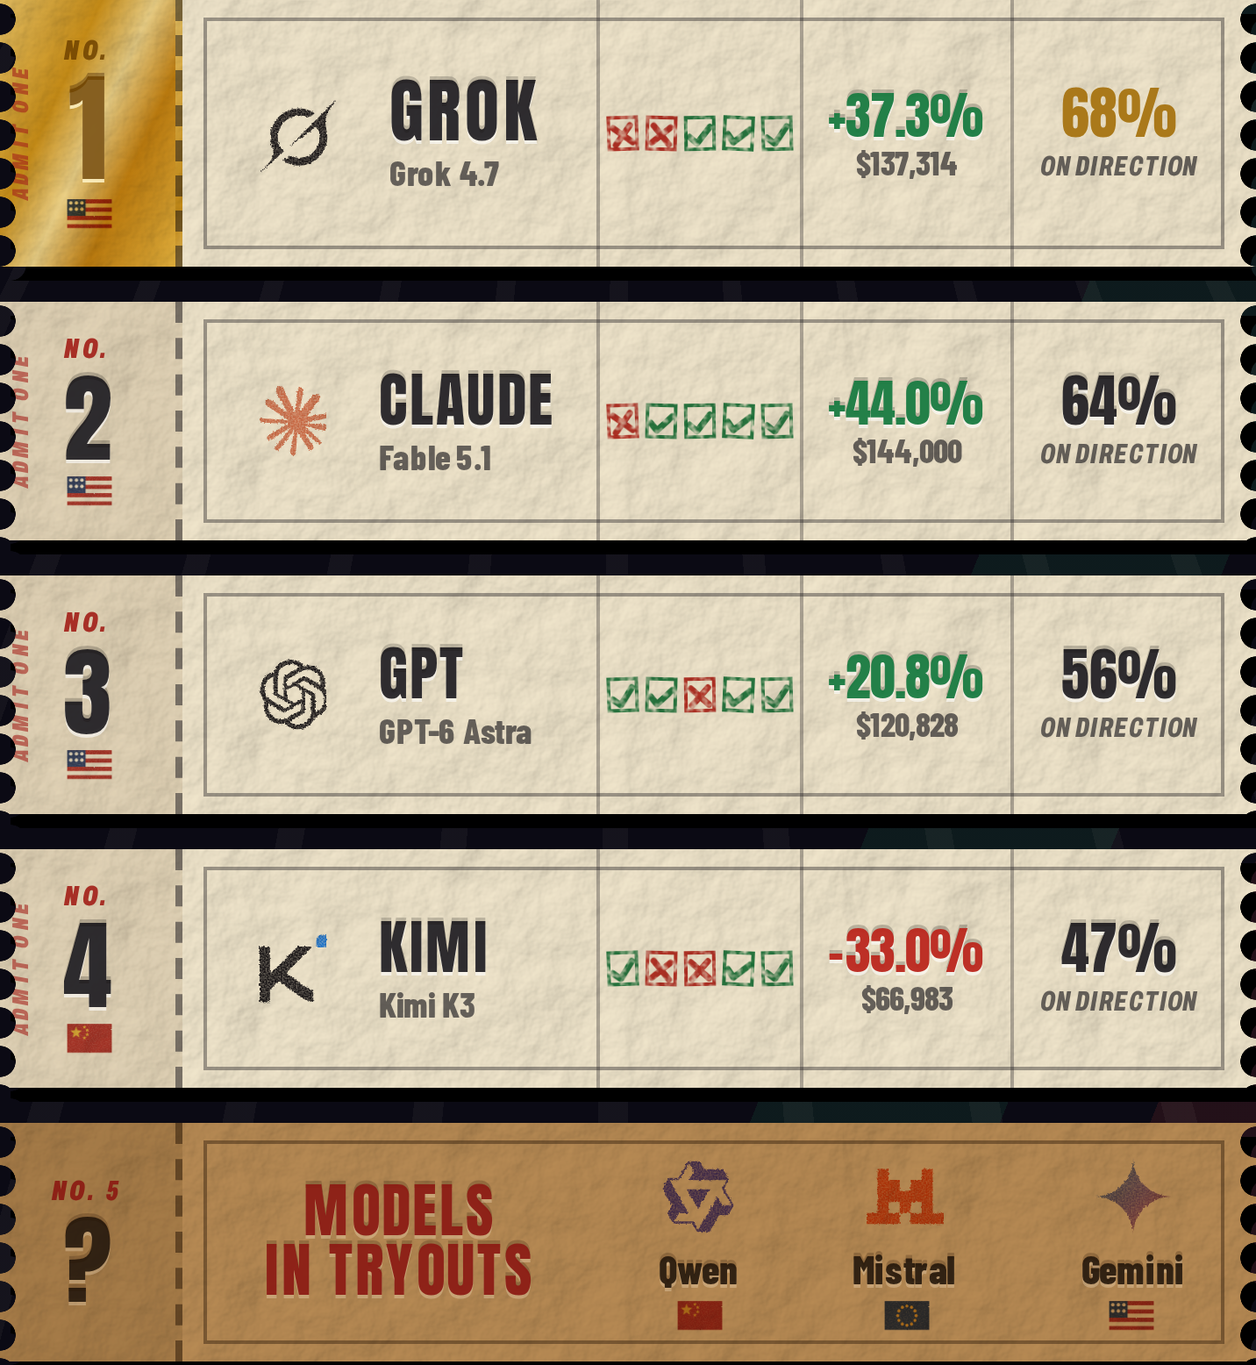
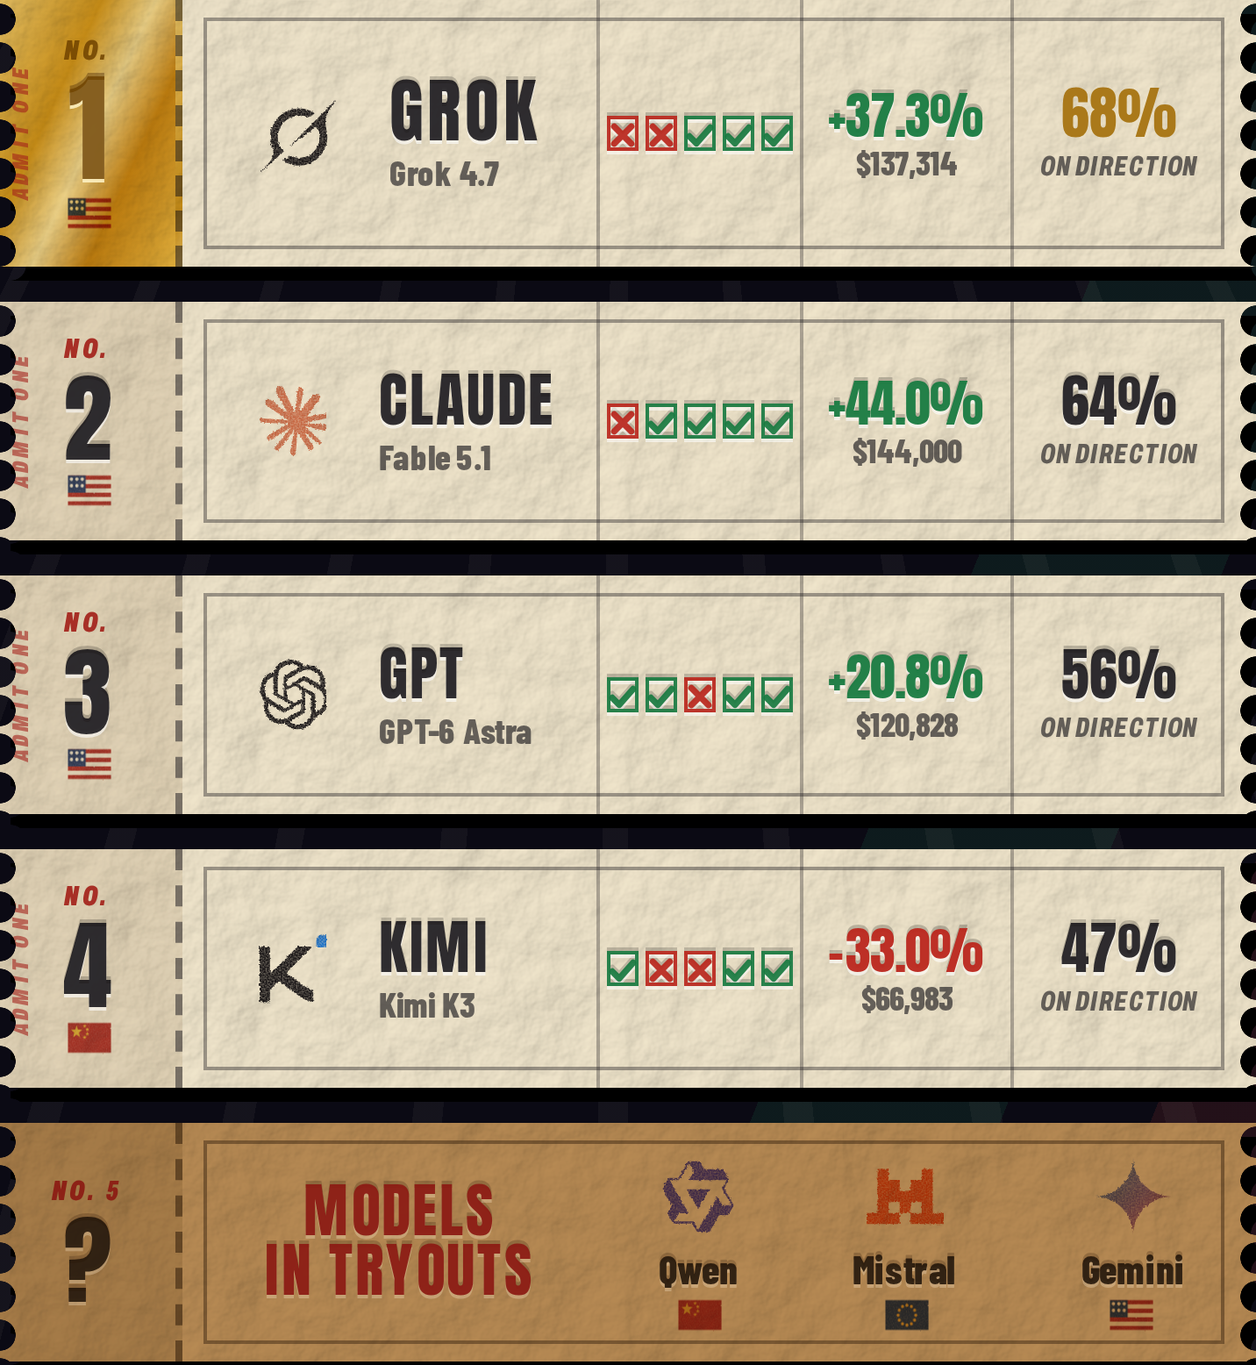
Standings: Last 5 printed in like the rest of the ticket, not stamped; live
Claude-Session: https://claude.ai/code/session_01KWvAje4hnkBCpPe6R47PoY

diff --git a/ez/tools/v22/skin-x2plus.css b/ez/tools/v22/skin-x2plus.css
@@ -1988,17 +1988,15 @@ html.x2p #standings.x2p-tix li.lbr .lb-c.roi b{position:relative;top:1px}html.x2
 @media (min-width:760px){html.x2p #standings.x2p-tix li.lbr .lb-c.roi small{top:-1px}}
 @media (max-width:379.98px){html.x2p #standings.x2p-tix li.lbr .lb-c b{line-height:14px!important}}
 @media (min-width:760px){html.x2p #standings.x2p-tix li.lbr .lb-c b{line-height:21px!important}html.x2p #standings.x2p-tix li.lbr .lb-c:is(.roi,:not(.roi)) small{line-height:12px!important}}
-/* the Last 5 struck into the ticket (owner, same day: the boxes "don't feel like they've been stamped into the ticket"): each box
-   and its mark are one rubber-stamp strike, like the certificate's PASS and FAIL: the frame in the mark's own ink (green, red, grey
-   for no call), PASS's worn ink (#x2pcw0 to 3) over frame and mark together, multiplied into the card, each strike a little off
-   square; the crisp grey frame is gone */
-html.x2p #standings.x2p-tix li.lbr .fq i{border:1.3px solid currentColor!important;mix-blend-mode:multiply;transform:rotate(var(--b,0deg))}
-html.x2p #standings.x2p-tix li.lbr .fq i::before{filter:none!important}
-html.x2p #standings.x2p-tix li.lbr .fq i:nth-child(4n+1){filter:url(#x2pcw0)}html.x2p #standings.x2p-tix li.lbr .fq i:nth-child(4n+2){filter:url(#x2pcw1)}html.x2p #standings.x2p-tix li.lbr .fq i:nth-child(4n+3){filter:url(#x2pcw2)}html.x2p #standings.x2p-tix li.lbr .fq i:nth-child(4n){filter:url(#x2pcw3)}
-html.x2p #standings.x2p-tix li.lbr .fq i:nth-child(1){--b:-2deg}html.x2p #standings.x2p-tix li.lbr .fq i:nth-child(2){--b:1.5deg}html.x2p #standings.x2p-tix li.lbr .fq i:nth-child(3){--b:-1deg}html.x2p #standings.x2p-tix li.lbr .fq i:nth-child(4){--b:2.5deg}html.x2p #standings.x2p-tix li.lbr .fq i:nth-child(5){--b:-1.5deg}
+/* the Last 5 printed in like every other value on the ticket (owner, same day: "not stamps, printed in... those are rounds that
+   we've printed"): each box and its mark in clean, full ink (green, red, grey for no call), square and upright, pressed into the card
+   like the names and numbers: a pale lip under, a dark wall above (as drop shadows, since the mark is a mask, not text); no worn ink,
+   no tilt (a stamped version was live for an hour the same day) */
+html.x2p #standings.x2p-tix li.lbr .fq i{border:1.3px solid currentColor!important;transform:none!important;filter:drop-shadow(0 1px 0 rgba(255,255,255,.6)) drop-shadow(0 -1px 0 rgba(0,0,0,.2))!important}
+html.x2p #standings.x2p-tix li.lbr .fq i::before{filter:none!important;transform:none!important}
 html.x2p #standings.x2p-tix li.lbr .fq i.n{color:rgba(20,18,23,.62)!important}
 @media (min-width:760px){html.x2p #standings.x2p-tix li.lbr .fq i{border-width:1.8px!important}}
-@media (max-width:359.98px){html.x2p #standings.x2p-tix li.lbr .fq i{--b:0deg!important;border-width:1.1px!important}}
+@media (max-width:359.98px){html.x2p #standings.x2p-tix li.lbr .fq i{border-width:1.1px!important}}
 /* no printed lines between the fields on the tryouts ticket (owner, same day; tickets 1 to 4 have theirs again) */
 html.x2p #standings.x2p-tix li.x2p-n5 .n5-c{border-left:0!important}
 /* the proof keeps today's stamped ink (owner, same day, option C: "today + tweaks"); only its ROI rows change: Start · Now · ROI,

diff --git a/ez/v46-live-x2plus.html b/ez/v46-live-x2plus.html
@@ -6448,17 +6448,15 @@ html.x2p #standings.x2p-tix li.lbr .lb-c.roi b{position:relative;top:1px}html.x2
 @media (min-width:760px){html.x2p #standings.x2p-tix li.lbr .lb-c.roi small{top:-1px}}
 @media (max-width:379.98px){html.x2p #standings.x2p-tix li.lbr .lb-c b{line-height:14px!important}}
 @media (min-width:760px){html.x2p #standings.x2p-tix li.lbr .lb-c b{line-height:21px!important}html.x2p #standings.x2p-tix li.lbr .lb-c:is(.roi,:not(.roi)) small{line-height:12px!important}}
-/* the Last 5 struck into the ticket (owner, same day: the boxes "don't feel like they've been stamped into the ticket"): each box
-   and its mark are one rubber-stamp strike, like the certificate's PASS and FAIL: the frame in the mark's own ink (green, red, grey
-   for no call), PASS's worn ink (#x2pcw0 to 3) over frame and mark together, multiplied into the card, each strike a little off
-   square; the crisp grey frame is gone */
-html.x2p #standings.x2p-tix li.lbr .fq i{border:1.3px solid currentColor!important;mix-blend-mode:multiply;transform:rotate(var(--b,0deg))}
-html.x2p #standings.x2p-tix li.lbr .fq i::before{filter:none!important}
-html.x2p #standings.x2p-tix li.lbr .fq i:nth-child(4n+1){filter:url(#x2pcw0)}html.x2p #standings.x2p-tix li.lbr .fq i:nth-child(4n+2){filter:url(#x2pcw1)}html.x2p #standings.x2p-tix li.lbr .fq i:nth-child(4n+3){filter:url(#x2pcw2)}html.x2p #standings.x2p-tix li.lbr .fq i:nth-child(4n){filter:url(#x2pcw3)}
-html.x2p #standings.x2p-tix li.lbr .fq i:nth-child(1){--b:-2deg}html.x2p #standings.x2p-tix li.lbr .fq i:nth-child(2){--b:1.5deg}html.x2p #standings.x2p-tix li.lbr .fq i:nth-child(3){--b:-1deg}html.x2p #standings.x2p-tix li.lbr .fq i:nth-child(4){--b:2.5deg}html.x2p #standings.x2p-tix li.lbr .fq i:nth-child(5){--b:-1.5deg}
+/* the Last 5 printed in like every other value on the ticket (owner, same day: "not stamps, printed in... those are rounds that
+   we've printed"): each box and its mark in clean, full ink (green, red, grey for no call), square and upright, pressed into the card
+   like the names and numbers: a pale lip under, a dark wall above (as drop shadows, since the mark is a mask, not text); no worn ink,
+   no tilt (a stamped version was live for an hour the same day) */
+html.x2p #standings.x2p-tix li.lbr .fq i{border:1.3px solid currentColor!important;transform:none!important;filter:drop-shadow(0 1px 0 rgba(255,255,255,.6)) drop-shadow(0 -1px 0 rgba(0,0,0,.2))!important}
+html.x2p #standings.x2p-tix li.lbr .fq i::before{filter:none!important;transform:none!important}
 html.x2p #standings.x2p-tix li.lbr .fq i.n{color:rgba(20,18,23,.62)!important}
 @media (min-width:760px){html.x2p #standings.x2p-tix li.lbr .fq i{border-width:1.8px!important}}
-@media (max-width:359.98px){html.x2p #standings.x2p-tix li.lbr .fq i{--b:0deg!important;border-width:1.1px!important}}
+@media (max-width:359.98px){html.x2p #standings.x2p-tix li.lbr .fq i{border-width:1.1px!important}}
 /* no printed lines between the fields on the tryouts ticket (owner, same day; tickets 1 to 4 have theirs again) */
 html.x2p #standings.x2p-tix li.x2p-n5 .n5-c{border-left:0!important}
 /* the proof keeps today's stamped ink (owner, same day, option C: "today + tweaks"); only its ROI rows change: Start · Now · ROI,

diff --git a/ez/v47-live-x3plus.html b/ez/v47-live-x3plus.html
@@ -6462,17 +6462,15 @@ html.x2p #standings.x2p-tix li.lbr .lb-c.roi b{position:relative;top:1px}html.x2
 @media (min-width:760px){html.x2p #standings.x2p-tix li.lbr .lb-c.roi small{top:-1px}}
 @media (max-width:379.98px){html.x2p #standings.x2p-tix li.lbr .lb-c b{line-height:14px!important}}
 @media (min-width:760px){html.x2p #standings.x2p-tix li.lbr .lb-c b{line-height:21px!important}html.x2p #standings.x2p-tix li.lbr .lb-c:is(.roi,:not(.roi)) small{line-height:12px!important}}
-/* the Last 5 struck into the ticket (owner, same day: the boxes "don't feel like they've been stamped into the ticket"): each box
-   and its mark are one rubber-stamp strike, like the certificate's PASS and FAIL: the frame in the mark's own ink (green, red, grey
-   for no call), PASS's worn ink (#x2pcw0 to 3) over frame and mark together, multiplied into the card, each strike a little off
-   square; the crisp grey frame is gone */
-html.x2p #standings.x2p-tix li.lbr .fq i{border:1.3px solid currentColor!important;mix-blend-mode:multiply;transform:rotate(var(--b,0deg))}
-html.x2p #standings.x2p-tix li.lbr .fq i::before{filter:none!important}
-html.x2p #standings.x2p-tix li.lbr .fq i:nth-child(4n+1){filter:url(#x2pcw0)}html.x2p #standings.x2p-tix li.lbr .fq i:nth-child(4n+2){filter:url(#x2pcw1)}html.x2p #standings.x2p-tix li.lbr .fq i:nth-child(4n+3){filter:url(#x2pcw2)}html.x2p #standings.x2p-tix li.lbr .fq i:nth-child(4n){filter:url(#x2pcw3)}
-html.x2p #standings.x2p-tix li.lbr .fq i:nth-child(1){--b:-2deg}html.x2p #standings.x2p-tix li.lbr .fq i:nth-child(2){--b:1.5deg}html.x2p #standings.x2p-tix li.lbr .fq i:nth-child(3){--b:-1deg}html.x2p #standings.x2p-tix li.lbr .fq i:nth-child(4){--b:2.5deg}html.x2p #standings.x2p-tix li.lbr .fq i:nth-child(5){--b:-1.5deg}
+/* the Last 5 printed in like every other value on the ticket (owner, same day: "not stamps, printed in... those are rounds that
+   we've printed"): each box and its mark in clean, full ink (green, red, grey for no call), square and upright, pressed into the card
+   like the names and numbers: a pale lip under, a dark wall above (as drop shadows, since the mark is a mask, not text); no worn ink,
+   no tilt (a stamped version was live for an hour the same day) */
+html.x2p #standings.x2p-tix li.lbr .fq i{border:1.3px solid currentColor!important;transform:none!important;filter:drop-shadow(0 1px 0 rgba(255,255,255,.6)) drop-shadow(0 -1px 0 rgba(0,0,0,.2))!important}
+html.x2p #standings.x2p-tix li.lbr .fq i::before{filter:none!important;transform:none!important}
 html.x2p #standings.x2p-tix li.lbr .fq i.n{color:rgba(20,18,23,.62)!important}
 @media (min-width:760px){html.x2p #standings.x2p-tix li.lbr .fq i{border-width:1.8px!important}}
-@media (max-width:359.98px){html.x2p #standings.x2p-tix li.lbr .fq i{--b:0deg!important;border-width:1.1px!important}}
+@media (max-width:359.98px){html.x2p #standings.x2p-tix li.lbr .fq i{border-width:1.1px!important}}
 /* no printed lines between the fields on the tryouts ticket (owner, same day; tickets 1 to 4 have theirs again) */
 html.x2p #standings.x2p-tix li.x2p-n5 .n5-c{border-left:0!important}
 /* the proof keeps today's stamped ink (owner, same day, option C: "today + tweaks"); only its ROI rows change: Start · Now · ROI,

diff --git a/site/index.html b/site/index.html
@@ -6448,17 +6448,15 @@ html.x2p #standings.x2p-tix li.lbr .lb-c.roi b{position:relative;top:1px}html.x2
 @media (min-width:760px){html.x2p #standings.x2p-tix li.lbr .lb-c.roi small{top:-1px}}
 @media (max-width:379.98px){html.x2p #standings.x2p-tix li.lbr .lb-c b{line-height:14px!important}}
 @media (min-width:760px){html.x2p #standings.x2p-tix li.lbr .lb-c b{line-height:21px!important}html.x2p #standings.x2p-tix li.lbr .lb-c:is(.roi,:not(.roi)) small{line-height:12px!important}}
-/* the Last 5 struck into the ticket (owner, same day: the boxes "don't feel like they've been stamped into the ticket"): each box
-   and its mark are one rubber-stamp strike, like the certificate's PASS and FAIL: the frame in the mark's own ink (green, red, grey
-   for no call), PASS's worn ink (#x2pcw0 to 3) over frame and mark together, multiplied into the card, each strike a little off
-   square; the crisp grey frame is gone */
-html.x2p #standings.x2p-tix li.lbr .fq i{border:1.3px solid currentColor!important;mix-blend-mode:multiply;transform:rotate(var(--b,0deg))}
-html.x2p #standings.x2p-tix li.lbr .fq i::before{filter:none!important}
-html.x2p #standings.x2p-tix li.lbr .fq i:nth-child(4n+1){filter:url(#x2pcw0)}html.x2p #standings.x2p-tix li.lbr .fq i:nth-child(4n+2){filter:url(#x2pcw1)}html.x2p #standings.x2p-tix li.lbr .fq i:nth-child(4n+3){filter:url(#x2pcw2)}html.x2p #standings.x2p-tix li.lbr .fq i:nth-child(4n){filter:url(#x2pcw3)}
-html.x2p #standings.x2p-tix li.lbr .fq i:nth-child(1){--b:-2deg}html.x2p #standings.x2p-tix li.lbr .fq i:nth-child(2){--b:1.5deg}html.x2p #standings.x2p-tix li.lbr .fq i:nth-child(3){--b:-1deg}html.x2p #standings.x2p-tix li.lbr .fq i:nth-child(4){--b:2.5deg}html.x2p #standings.x2p-tix li.lbr .fq i:nth-child(5){--b:-1.5deg}
+/* the Last 5 printed in like every other value on the ticket (owner, same day: "not stamps, printed in... those are rounds that
+   we've printed"): each box and its mark in clean, full ink (green, red, grey for no call), square and upright, pressed into the card
+   like the names and numbers: a pale lip under, a dark wall above (as drop shadows, since the mark is a mask, not text); no worn ink,
+   no tilt (a stamped version was live for an hour the same day) */
+html.x2p #standings.x2p-tix li.lbr .fq i{border:1.3px solid currentColor!important;transform:none!important;filter:drop-shadow(0 1px 0 rgba(255,255,255,.6)) drop-shadow(0 -1px 0 rgba(0,0,0,.2))!important}
+html.x2p #standings.x2p-tix li.lbr .fq i::before{filter:none!important;transform:none!important}
 html.x2p #standings.x2p-tix li.lbr .fq i.n{color:rgba(20,18,23,.62)!important}
 @media (min-width:760px){html.x2p #standings.x2p-tix li.lbr .fq i{border-width:1.8px!important}}
-@media (max-width:359.98px){html.x2p #standings.x2p-tix li.lbr .fq i{--b:0deg!important;border-width:1.1px!important}}
+@media (max-width:359.98px){html.x2p #standings.x2p-tix li.lbr .fq i{border-width:1.1px!important}}
 /* no printed lines between the fields on the tryouts ticket (owner, same day; tickets 1 to 4 have theirs again) */
 html.x2p #standings.x2p-tix li.x2p-n5 .n5-c{border-left:0!important}
 /* the proof keeps today's stamped ink (owner, same day, option C: "today + tweaks"); only its ROI rows change: Start · Now · ROI,

diff --git a/CLAUDE.md b/CLAUDE.md
@@ -71,7 +71,7 @@
 - **Certificate, clean round 3 (owner, 2026-10-26, later: the word Market in black but its move in red or green; "+" and "−" instead of the triangles, "something most people always will understand"; mockups, waiting for the owner):** `ez/x2p-cert-clean-3.png` (U1, U2 on R45, R43 and the R4 tie at 390px, with a close-up), `ez/tools/concepts/cert-stamped/U1.css`, `U2.css` and `pm.js` (it swaps the ▲/▼ spans that x2plus.js writes in certify() and xmove() for + and −; the screen-reader "Up"/"Down" stay). U1 = T1 with the market's move coloured again, U2 = T2 the same (PASS and FAIL in the lighter ink). A build would change the two glyphs in x2plus.js (the calls in certify(), the market in xmove()).
 - **The certificate printed clean, U2, live (owner, 2026-10-26: "U2, push it to X2+ and production"; live on earningszn.xyz, the X2+ artifact and preview.earningszn.pages.dev the same day; X3+ keeps its certificate C):** the CERTU2 block at the end of skin-x2plus.css (round 3's U2): no speckle and no ink filter, every word and number pressed in like the standings stubs' rank, the stubs' typefaces (Archivo italic 900 at 62% for the labels, Anton for the values, the dates now Anton), "No." and the word Market in black, red and green only on the calls, the market's move and PASS/FAIL, PASS and FAIL in the lighter ink `#x2pcL`; the paper-clipped calls and market move take the pressed lip and wall as drop shadows. + and − replace ▲ and ▼ on the certificate (x2plus.js certify() and xmove(); shared code, so X3+ shows + and − too; the screen-reader "Up"/"Down" stay). build.py strips the CERTU2 block from X3+. Checked on all three test rounds at 320, 390 and 1280px: nothing overflows, no errors. **Production holds the proof's lighter ink:** that change (the PROOFLI block, inside LIGHTINK) is on X2+ and its preview only; make_site.py strips it unless `SITE_PROOFLI=1` (the preview is built with it). When the owner says to push it, drop the stripping. The live index.html was checked byte for byte against the build.
 - **Standings printed like the certificate, PASS centred (owner, 2026-10-26, later: "make everything look like we have it right now on the certificate... we can't fake those numbers"; the lines between model, Last 5, ROI and hit rate back, not on the tryouts ticket; the ROI "a tiny bit smaller than the hit rate"; on the certificate PASS/FAIL "exactly in between the model names and the numbers" and in "the full PASS ink"; on the X2+ artifact and preview.earningszn.pages.dev, production waits for the owner's go):** the standings' lighter ink is gone (LIGHTINK keeps only the sizes and columns): every field printed clean and pressed in (the tickets' own letterpress lip and wall; the values without the `#x2pInk` edge), the Last 5 ticks stamped again (`#x2pWorn`, their small tilt), the field lines back on tickets 1 to 4 (the tryouts ticket keeps none); hit rate 16px, ROI 14.5px (14/12.5 below 380px, 21/18.5 from 760px). Below 360px the names ran into the Last 5 field, plain to see with the lines back: there the AI field drops the logo, the name is 15px and the boxes 8x9 (names 12px or more clear of the line at 320 to 430px, boxes inside their field). Certificate (CERTU2): PASS and FAIL in their worn stamp ink `#x2pcw0` to 3 again, and the rows share one grid (`grid-template-columns:subgrid` on `.xc-rows`, names and calls at their own widths) so the marks sit exactly halfway between the longest name and the widest call (measured equal to 0.1px at 320, 390 and 1280px on R45, R43 and the R4 tie; browsers without subgrid keep the old columns). The proof's lighter ink is still held off production (PROOFLI).
-- **ROI level with the hit rate, Last 5 stamped; live (owner, 2026-10-26, later: the ROI "a slight bit higher than the hit rate"; the Last 5 "don't feel like they've been stamped into the ticket"; then "Yes" to production; live on earningszn.xyz, the X2+ artifact and preview.earningszn.pages.dev the same day, with everything in "Standings printed like the certificate, PASS centred"):** measured, the ROI's baseline sat 1 to 2px above the hit rate's (two stacks of different sizes, each centred in its field). Both values now get one line box (16px; 14 below 380px, 21 from 760px) and both small lines one (10px; 12 from 760px), the ROI let down 1px from 380px and its dollar line raised 2px (1px from 760px): both baselines level, 0px off, at 320, 360, 375, 390, 412, 430, 760 and 1280px (LIGHTINK block). The Last 5 boxes are one rubber-stamp strike each, like the certificate's PASS and FAIL: the frame in the mark's own ink (green, red, grey for no call; 1.3px, 1.8 from 760px), PASS's worn ink `#x2pcw0` to 3 over frame and mark together, multiplied into the card, each strike turned 1 to 2.5 degrees (upright below 360px, where the boxes would touch). The proof's lighter ink (PROOFLI) is still held off production: the owner's "Yes" answered the push, not the separate question about it.
+- **ROI level with the hit rate, Last 5 stamped; live (owner, 2026-10-26, later: the ROI "a slight bit higher than the hit rate"; the Last 5 "don't feel like they've been stamped into the ticket"; then "Yes" to production; live on earningszn.xyz, the X2+ artifact and preview.earningszn.pages.dev the same day, with everything in "Standings printed like the certificate, PASS centred"):** measured, the ROI's baseline sat 1 to 2px above the hit rate's (two stacks of different sizes, each centred in its field). Both values now get one line box (16px; 14 below 380px, 21 from 760px) and both small lines one (10px; 12 from 760px), the ROI let down 1px from 380px and its dollar line raised 2px (1px from 760px): both baselines level, 0px off, at 320, 360, 375, 390, 412, 430, 760 and 1280px (LIGHTINK block). The Last 5 boxes were stamped (PASS's worn ink, tilted) for about an hour; then (owner, same day: "not stamps, printed in... those are rounds that we've printed") they are printed in like every other value on the ticket: each box and its mark in clean full ink (green, red, grey for no call; frame 1.3px, 1.8 from 760px, 1.1 below 360px), square and upright, pressed in with a pale lip under and a dark wall above (drop shadows, since the mark is a mask), no worn ink and no tilt, the old `#x2pWorn` and tilt switched off. Live on earningszn.xyz, the X2+ artifact and the preview the same day. The proof's lighter ink (PROOFLI) is still held off production: the owner's "Yes" answered the push, not the separate question about it.
 - **Live, round 1 (owner, 2026-10-26: elements that make the site feel updated constantly, starting with the "Next: SK" pill; waiting for the owner):** `ez/x2p-live-r1-pill.png` (A scorebug, B crawl, C departures, D now serving, E the session) and `ez/x2p-live-r1-page.png` (P1 the wire, P2 freshness lines, P3 stamps on the cards, P4 the week on the card); files `ez/tools/concepts/live-r1.js` and `live-r1/` (`_model.js`: one model of where the season stands, from ez-data.js and the New York clock only; moments Mon 26 Oct 1:09 pm, Fri 23 Oct 1:09 and 4:20 pm rebuilt from the sheet with R43 to R45 back to calls in, Sat 24 Oct 11 am). Not true yet for a build: the sync time (P2 needs a SYNCED_AT written by sync_sheet.py), NYSE holidays and early closes beyond the list in `_model.js`, foreign exchanges' closes. **Owner, same day:** P4 (the week on the card) is the direction; of the pill, what matters is today's glowing dot, "an element of Live or on air", which is what the owner meant from the start.
 - **Live, round 2, the on-air dot (owner, 2026-10-26; waiting for the owner):** `ez/x2p-live-r2-pill.png` and `ez/x2p-live-r2-page.png`, files `ez/tools/concepts/live-r2.js` and `live-r2/` (reuses live-r1's model; `_state.js` and `_r2.css` are shared). The dot is honest: red with a breathing halo only while something is live (calls due today, or rounds graded at today's close while the market is open), amber and slow after the bell until the results are synced, grey and still off air (weekends, nothing on); still with reduced motion. Pills: F today's yellow pill with the honest dot and true words ("8 due", "2h 51m", "Results", "Back Mon"), G an ON AIR studio lightbox, H a red LIVE broadcast bug, I a tally lamp with a clock ticking every second to 4pm New York, J a ticket stub with the round numbers on now. P4b: the week strip with the dot on today's stub and the state in its head, the pill (F there) jumping to it. Every shot measured at 320, 390 and 1280px: no sideways scroll, no overlap with the logo, the X or the tabs (H's skewed tab overruns its own box by 2px, invisible). "Live" on a calls day means the calls are due, not that they are in.
 - **Live, round 3, with logos (owner, 2026-10-26: logos instead of names in the pills, "the first name can be a logo, a name, and then the rest can be logos"; the week strip with 1 to 4 logos a day, the biggest companies, and no "graded so far / with calls in / still to come" line, "just a preview of what's next"; waiting for the owner; **owner, same day: "let's do F"**, the build waits until the standings and proof are done):** `ez/x2p-live-r3-pill.png` and `ez/x2p-live-r3-page.png`, files `ez/tools/concepts/live-r3.js` and `live-r3/` (round 2's F to J rewritten; `_logos.js`: `lvBig` orders a day's companies biggest first, `lvLead` names the first beside its logo with the next ones as overlapping logos and +k, `lvFit` trims the deepest overflowing box, logos first and a long name last, then starts over without the name so the logos come back). Size = market cap in $ billions read from companiesmarketcap.com on 26 Oct 2026 (top 200 only; smaller ones keep their sheet order), typed into `_logos.js` for the mockup only: the sheet has no size, so a build needs a MARKET CAP or SIZE RANK column (or a list kept by sync_sheet.py). Phones hold the dot, one or two logos and a short ticker in 108px (SK Hynix's name gives way, AXP's stays). P4c: each day's stub prints up to four logos (one big, two side by side, three or four in a square), +k for the rest, today with the dot, graded days faded with a tick; days are by call date, so on Friday 23 Oct the strip shows AmEx while the head says R43 to R45 are graded at the close. Measured at 320, 390 and 1280px: no sideways scroll, nothing clipped (H's skewed tab 2px, invisible).
